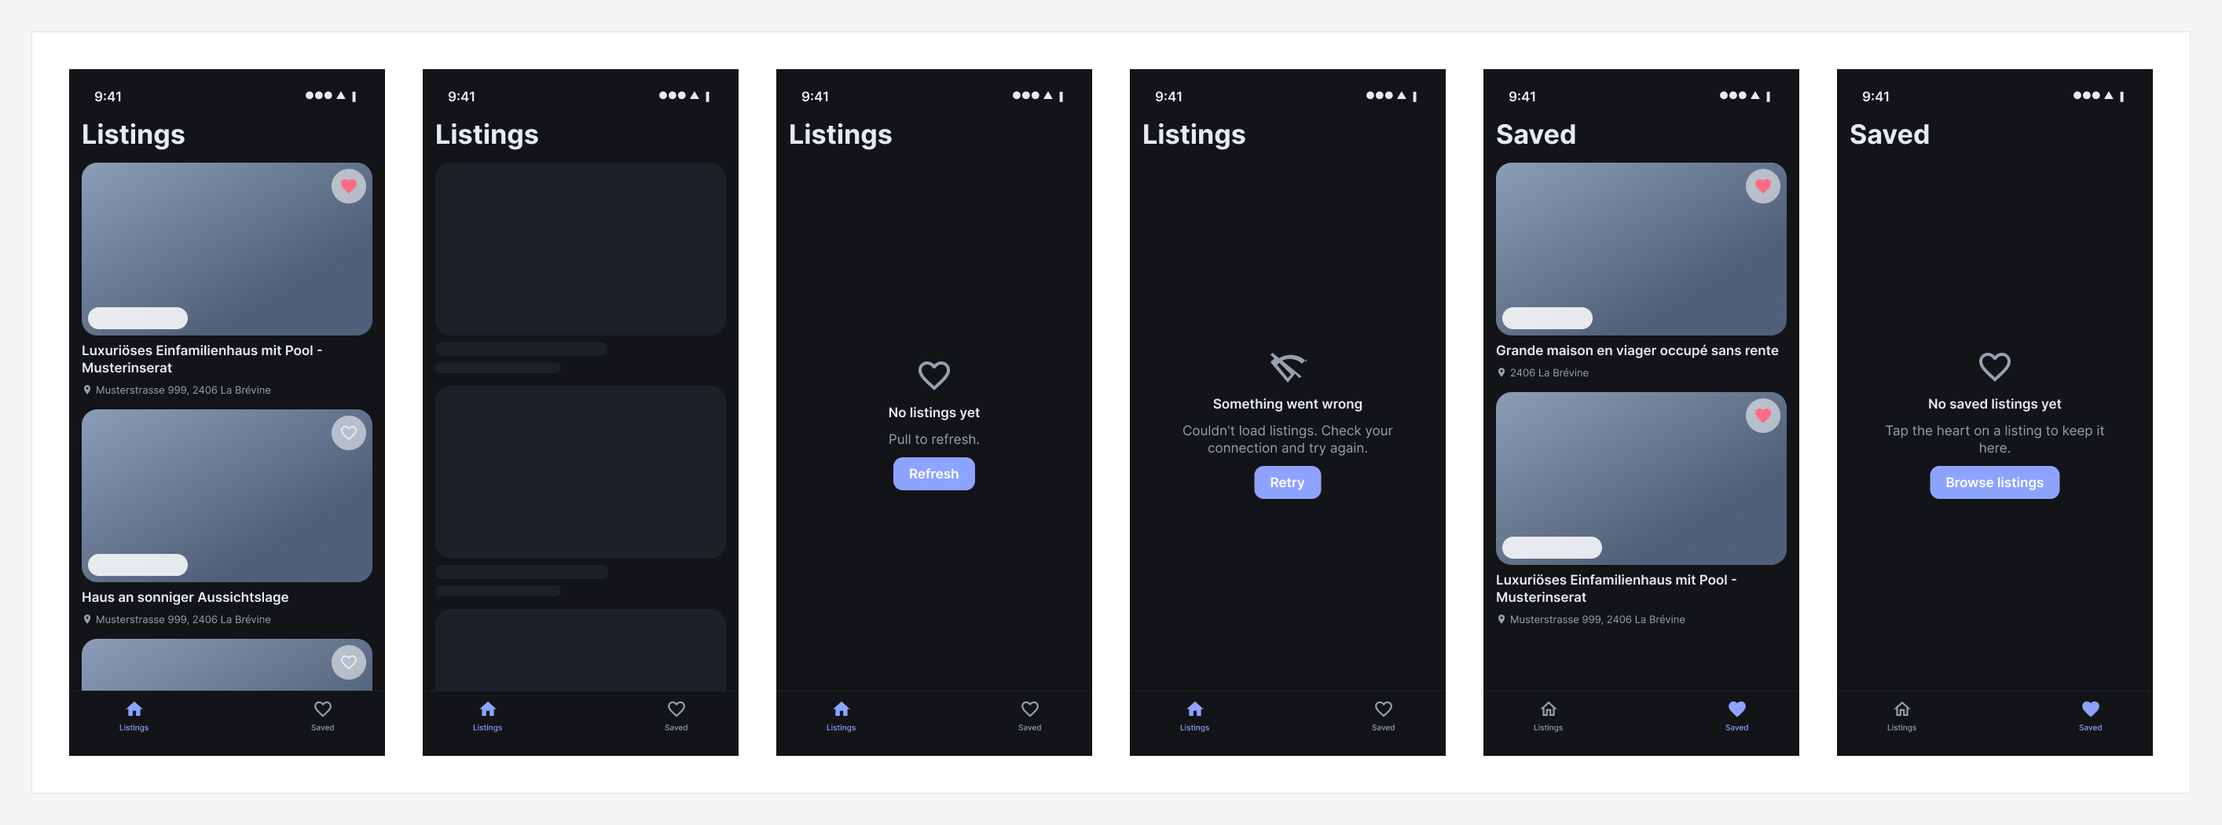
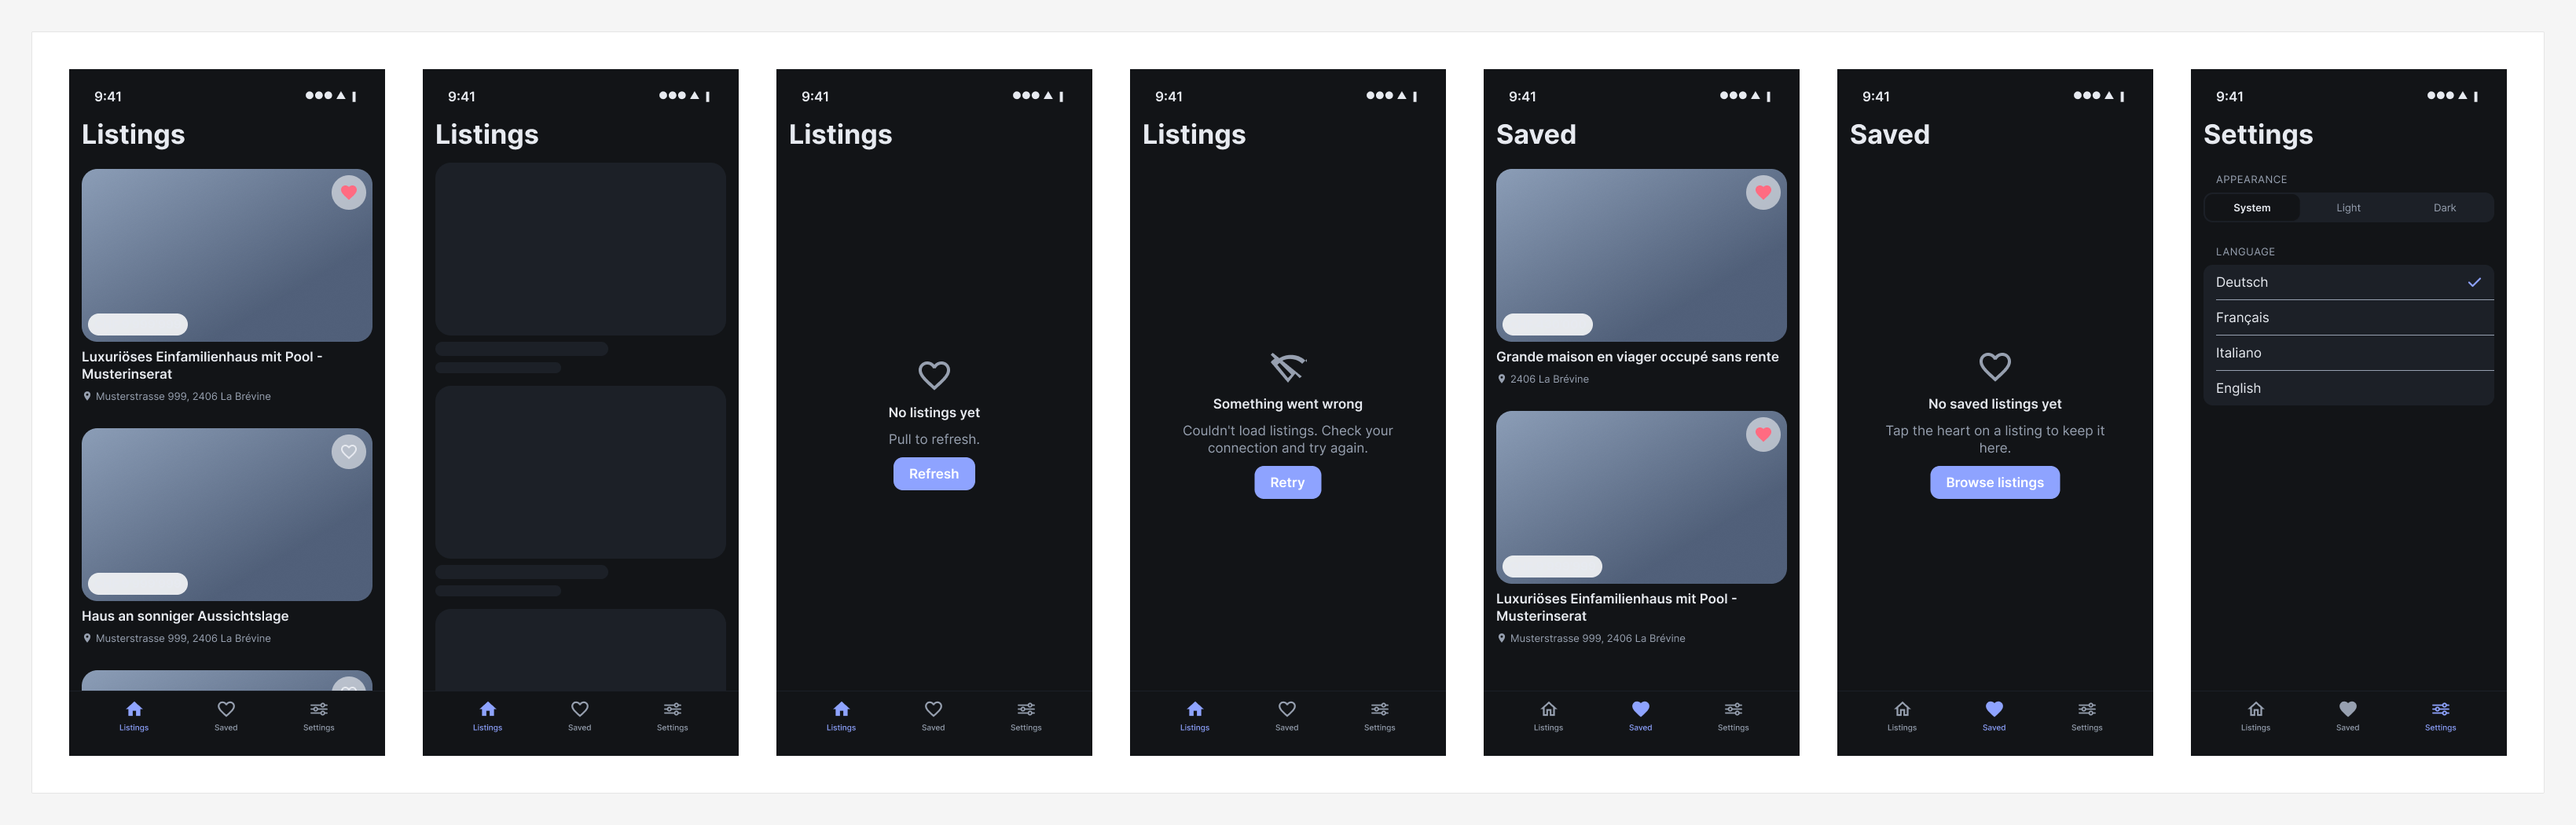
Add the Settings screen to the design system

Changed region(s): [[0.0, 0.061, 0.9335, 0.9143], [0.9024, 0.0914, 0.9958, 0.9143]]

diff --git a/docs/design/design-system.md b/docs/design/design-system.md
@@ -47,14 +47,17 @@ into the asset catalog; names never change.
 | `PriceTag` | Amount, OnRequest | inside `ListingCard`, text from `PriceFormatter` |
 | `StateView` | Empty, Error | `EmptyStateView`, `ErrorStateView` |
 | `SkeletonRow` | one | `SkeletonRow().shimmering()` |
-| `TabBar` | Listings, Saved | `TabView` in `RootView`, driven by `AppRouter` |
+| `TabBar` | Listings, Saved, Settings | `TabView` in `RootView`, driven by `AppRouter` |
 
 Card anatomy: 3:2 image with `radius/l` corners, `PriceTag` bottom leading, `LikeButton` top trailing on a
 thin material disc, title on two lines in `DSFont/title`, address on one line with a pin in `DSFont/caption`.
 
 ## Screens
 
-Listings: content, loading, empty, error. Saved: content, empty. Each in light and dark, iPhone 17 frame.
+Listings: content, loading, empty, error. Saved: content, empty. Settings: one screen, an appearance
+segmented control (System, Light, Dark) over `surfaceElevated` and a grouped language list with the
+languages in their own names and a checkmark in `accent` on the chosen one. Each in light and dark,
+iPhone 17 frame.
 
 ![Light](screens-light.png)
 ![Dark](screens-dark.png)
